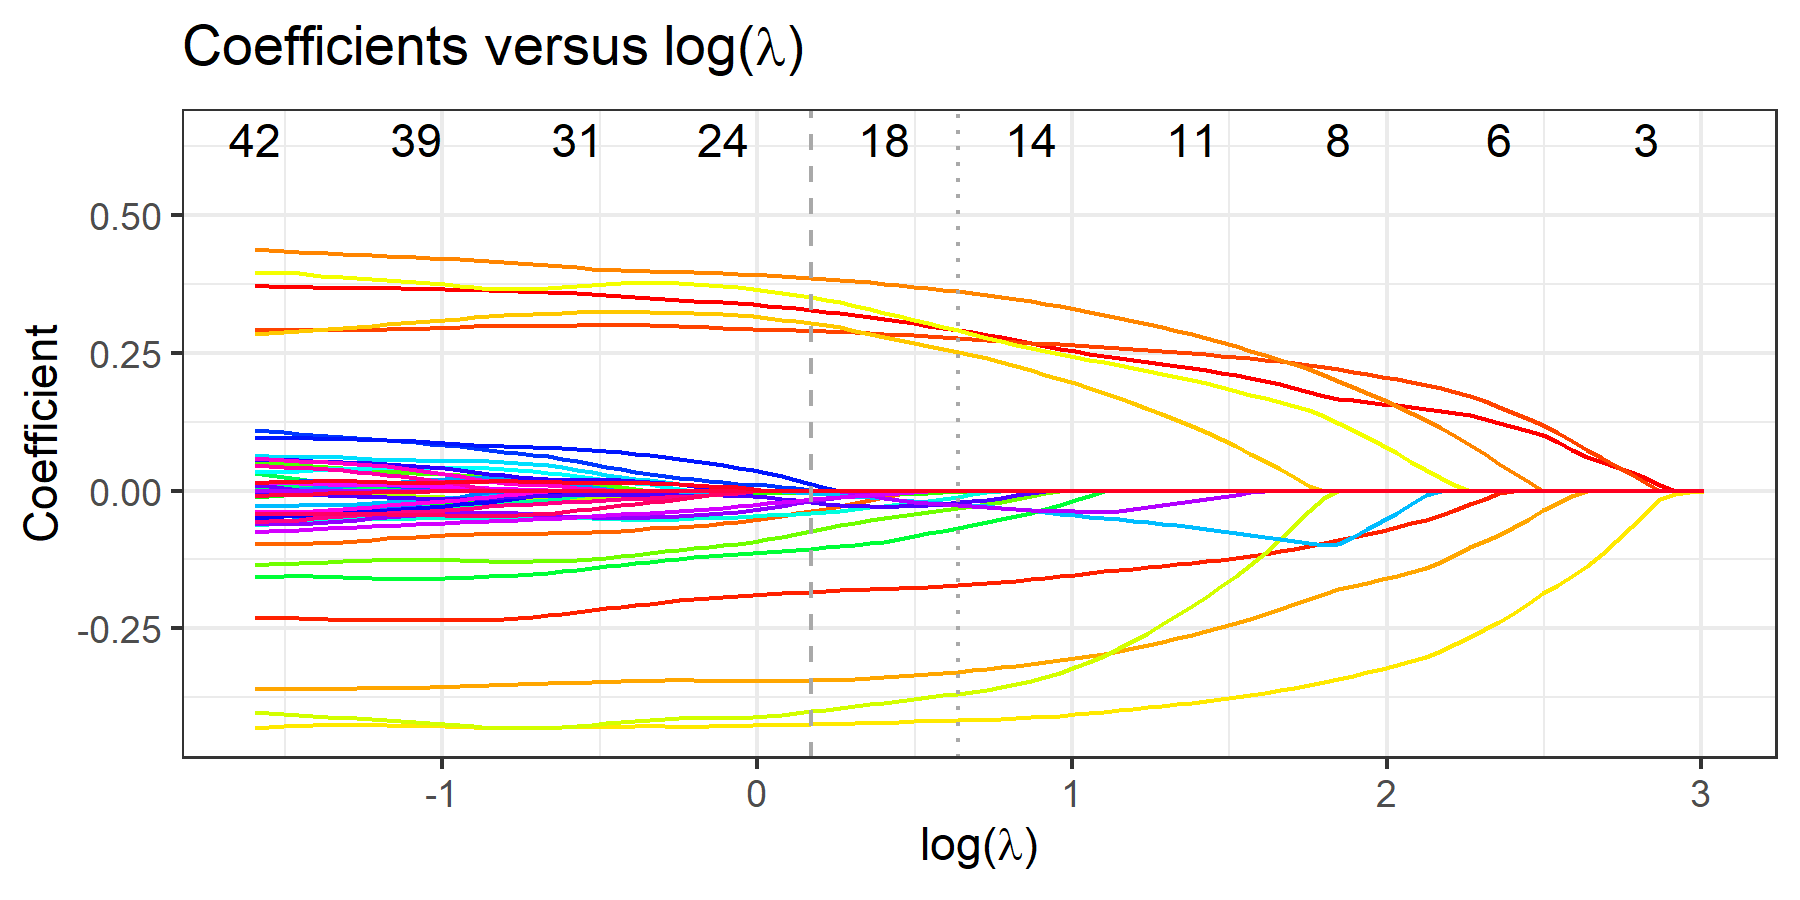
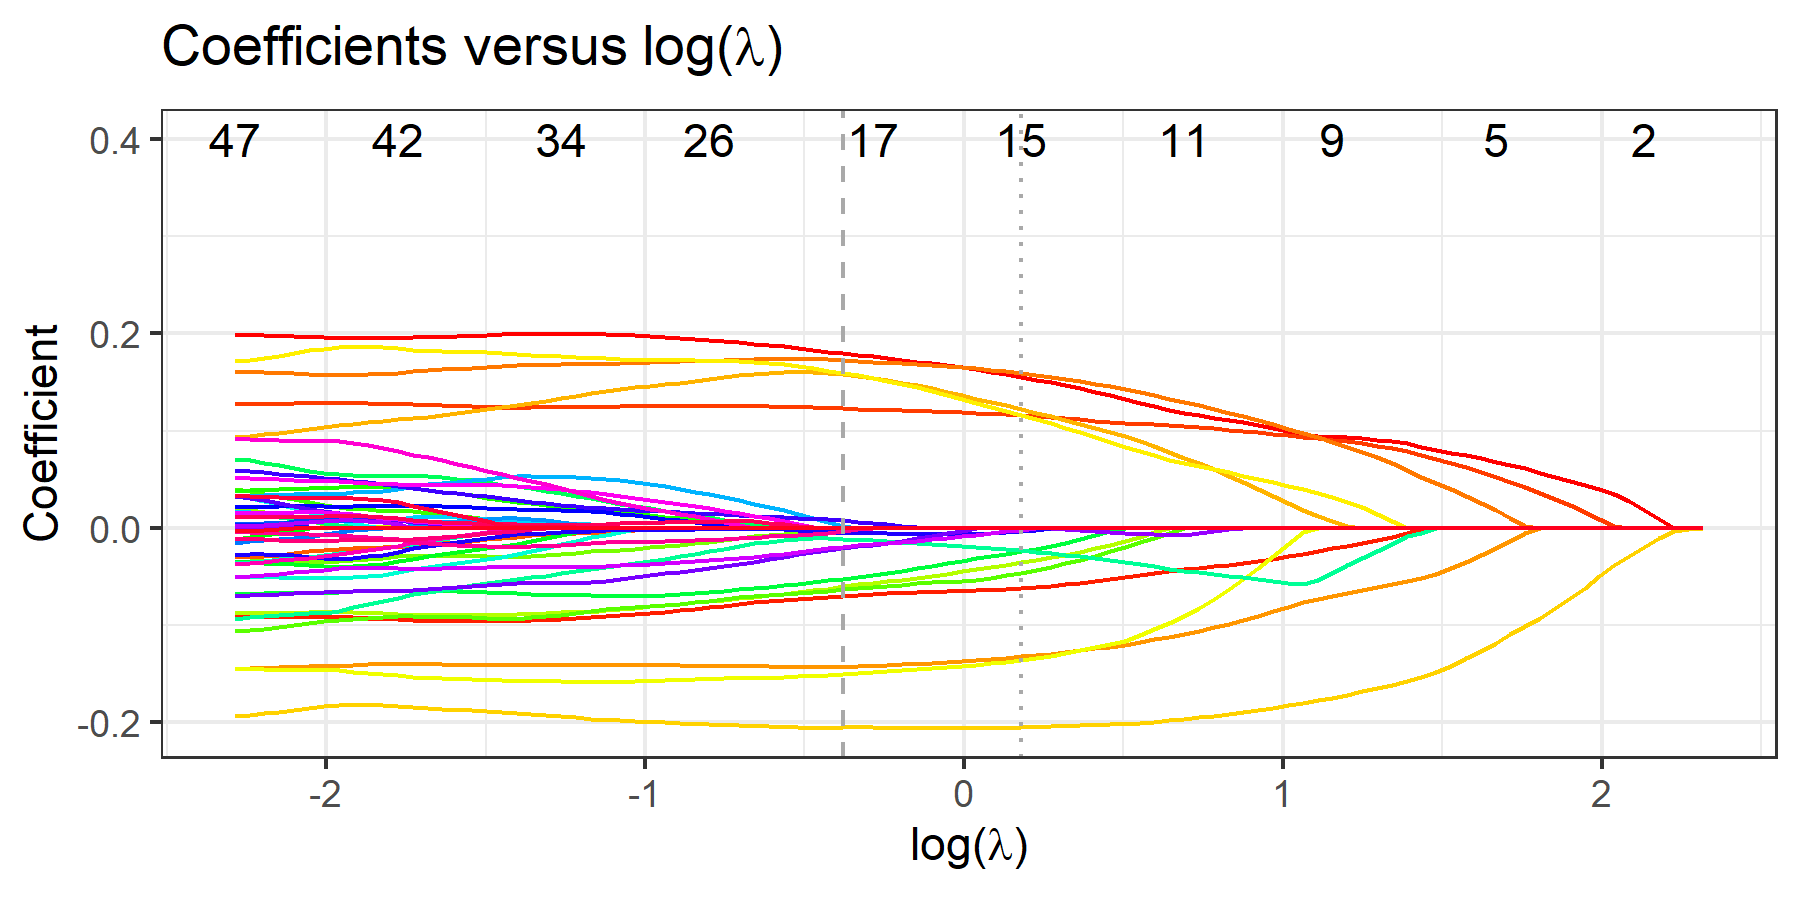
Add easy-to-interpret output for identified ratios. Add corresponding documentations. Modify description file.

diff --git a/README.md b/README.md
@@ -1,11 +1,13 @@
 
 <!-- README.md is generated from README.Rmd. Please edit that file -->
 
-# FLORAL: Fit LOg-RAtio Lasso regression
+# FLORAL: Fit LOg-RAtio Lasso regression for compositional covariates
 
 <!-- badges: start -->
 
 [![R-CMD-check](https://github.com/vdblab/FLORAL/actions/workflows/R-CMD-check.yaml/badge.svg)](https://github.com/vdblab/FLORAL/actions/workflows/R-CMD-check.yaml)
+[![Codecov test
+coverage](https://codecov.io/gh/vdblab/FLORAL/branch/master/graph/badge.svg)](https://app.codecov.io/gh/vdblab/FLORAL?branch=master)
 <!-- badges: end -->
 
 `FLORAL` is an open-source computational tool to perform log-ratio lasso
@@ -34,7 +36,6 @@ compositional features.
 The data simulation procedure is described in the preprint.
 
 ``` r
-
 set.seed(23420)
 library(FLORAL)
 
@@ -47,18 +48,68 @@ coefficients, use `fit$pmse` or `fit$pcoef`:
 
 <img src="man/figures/README-plot-1.png" width="100%" /><img src="man/figures/README-plot-2.png" width="100%" />
 
+To view selected compositional features, use `fit$selected.feature`,
+where features are sorted by their names. Features under `min` and `1se`
+correspond to penalty parameter *λ*<sub>min</sub> and *λ*<sub>1se</sub>,
+respectively. Features under `min.2stage` and `1se.2stage` are obtained
+after applying 2-stage filtering based on features under `min` and
+`1se`, respectively.
+
+``` r
+fit$selected.feature
+#> $min
+#>  [1] "taxa1"  "taxa10" "taxa13" "taxa2"  "taxa20" "taxa3"  "taxa32" "taxa39"
+#>  [9] "taxa5"  "taxa6"  "taxa60" "taxa7"  "taxa75" "taxa76" "taxa79" "taxa8" 
+#> [17] "taxa84" "taxa9"  "taxa92"
+#> 
+#> $`1se`
+#>  [1] "taxa1"  "taxa10" "taxa13" "taxa2"  "taxa20" "taxa3"  "taxa32" "taxa39"
+#>  [9] "taxa5"  "taxa6"  "taxa7"  "taxa75" "taxa8"  "taxa84" "taxa9" 
+#> 
+#> $min.2stage
+#>  [1] "taxa1"  "taxa10" "taxa13" "taxa2"  "taxa20" "taxa3"  "taxa32" "taxa5" 
+#>  [9] "taxa6"  "taxa60" "taxa7"  "taxa79" "taxa8"  "taxa84" "taxa9"  "taxa92"
+#> 
+#> $`1se.2stage`
+#>  [1] "taxa1"  "taxa10" "taxa13" "taxa2"  "taxa20" "taxa3"  "taxa32" "taxa5" 
+#>  [9] "taxa6"  "taxa7"  "taxa8"  "taxa84" "taxa9"
+```
+
+To get specific ratios selected by the 2-stage procedure, use
+`fit$step2.ratios`, where `min` and `1se` display the ratios between
+features. For each identified ratio, `min.idx` and `1se.idx` return the
+column indices in the original input matrix for the two corresponding
+features forming the ratio.
+
+``` r
+fit$step2.ratios
+#> $min
+#>  [1] "taxa1/taxa13" "taxa1/taxa20" "taxa1/taxa84" "taxa2/taxa5"  "taxa3/taxa8" 
+#>  [6] "taxa3/taxa92" "taxa5/taxa8"  "taxa6/taxa9"  "taxa7/taxa10" "taxa7/taxa79"
+#> [11] "taxa8/taxa60" "taxa9/taxa32" "taxa9/taxa92"
+#> 
+#> $`1se`
+#>  [1] "taxa1/taxa13" "taxa1/taxa20" "taxa1/taxa84" "taxa2/taxa5"  "taxa3/taxa8" 
+#>  [6] "taxa5/taxa8"  "taxa6/taxa7"  "taxa6/taxa9"  "taxa7/taxa10" "taxa9/taxa32"
+#> 
+#> $min.idx
+#>      [,1] [,2] [,3] [,4] [,5] [,6] [,7] [,8] [,9] [,10] [,11] [,12] [,13]
+#> [1,]    1    1    1    2    3    3    5    6    7     7     8     9     9
+#> [2,]   13   20   84    5    8   92    8    9   10    79    60    32    92
+#> 
+#> $`1se.idx`
+#>      [,1] [,2] [,3] [,4] [,5] [,6] [,7] [,8] [,9] [,10]
+#> [1,]    1    1    1    2    3    5    6    6    7     9
+#> [2,]   13   20   84    5    8    8    7    9   10    32
+```
+
 For binary and survival outcomes, please specify `family="binomial"` and
 `family="cox"` accordingly.
 
 ``` r
-
-library(FLORAL)
-library(survival)
-#> Warning: package 'survival' was built under R version 4.1.3
-
 dat.bin <- simu(n=50,p=100,model="binomial")
 fit.bin <- FLORAL(dat.bin$xcount,dat.bin$y,family="binomial",ncv=10,progress=FALSE)
 
 dat.cox <- simu(n=50,p=100,model="cox")
-fit.cox <- FLORAL(dat.cox$xcount,Surv(dat.cox$t,dat.cox$d),family="cox",ncv=10,progress=FALSE)
+fit.cox <- FLORAL(dat.cox$xcount,survival::Surv(dat.cox$t,dat.cox$d),family="cox",ncv=10,progress=FALSE)
 ```
